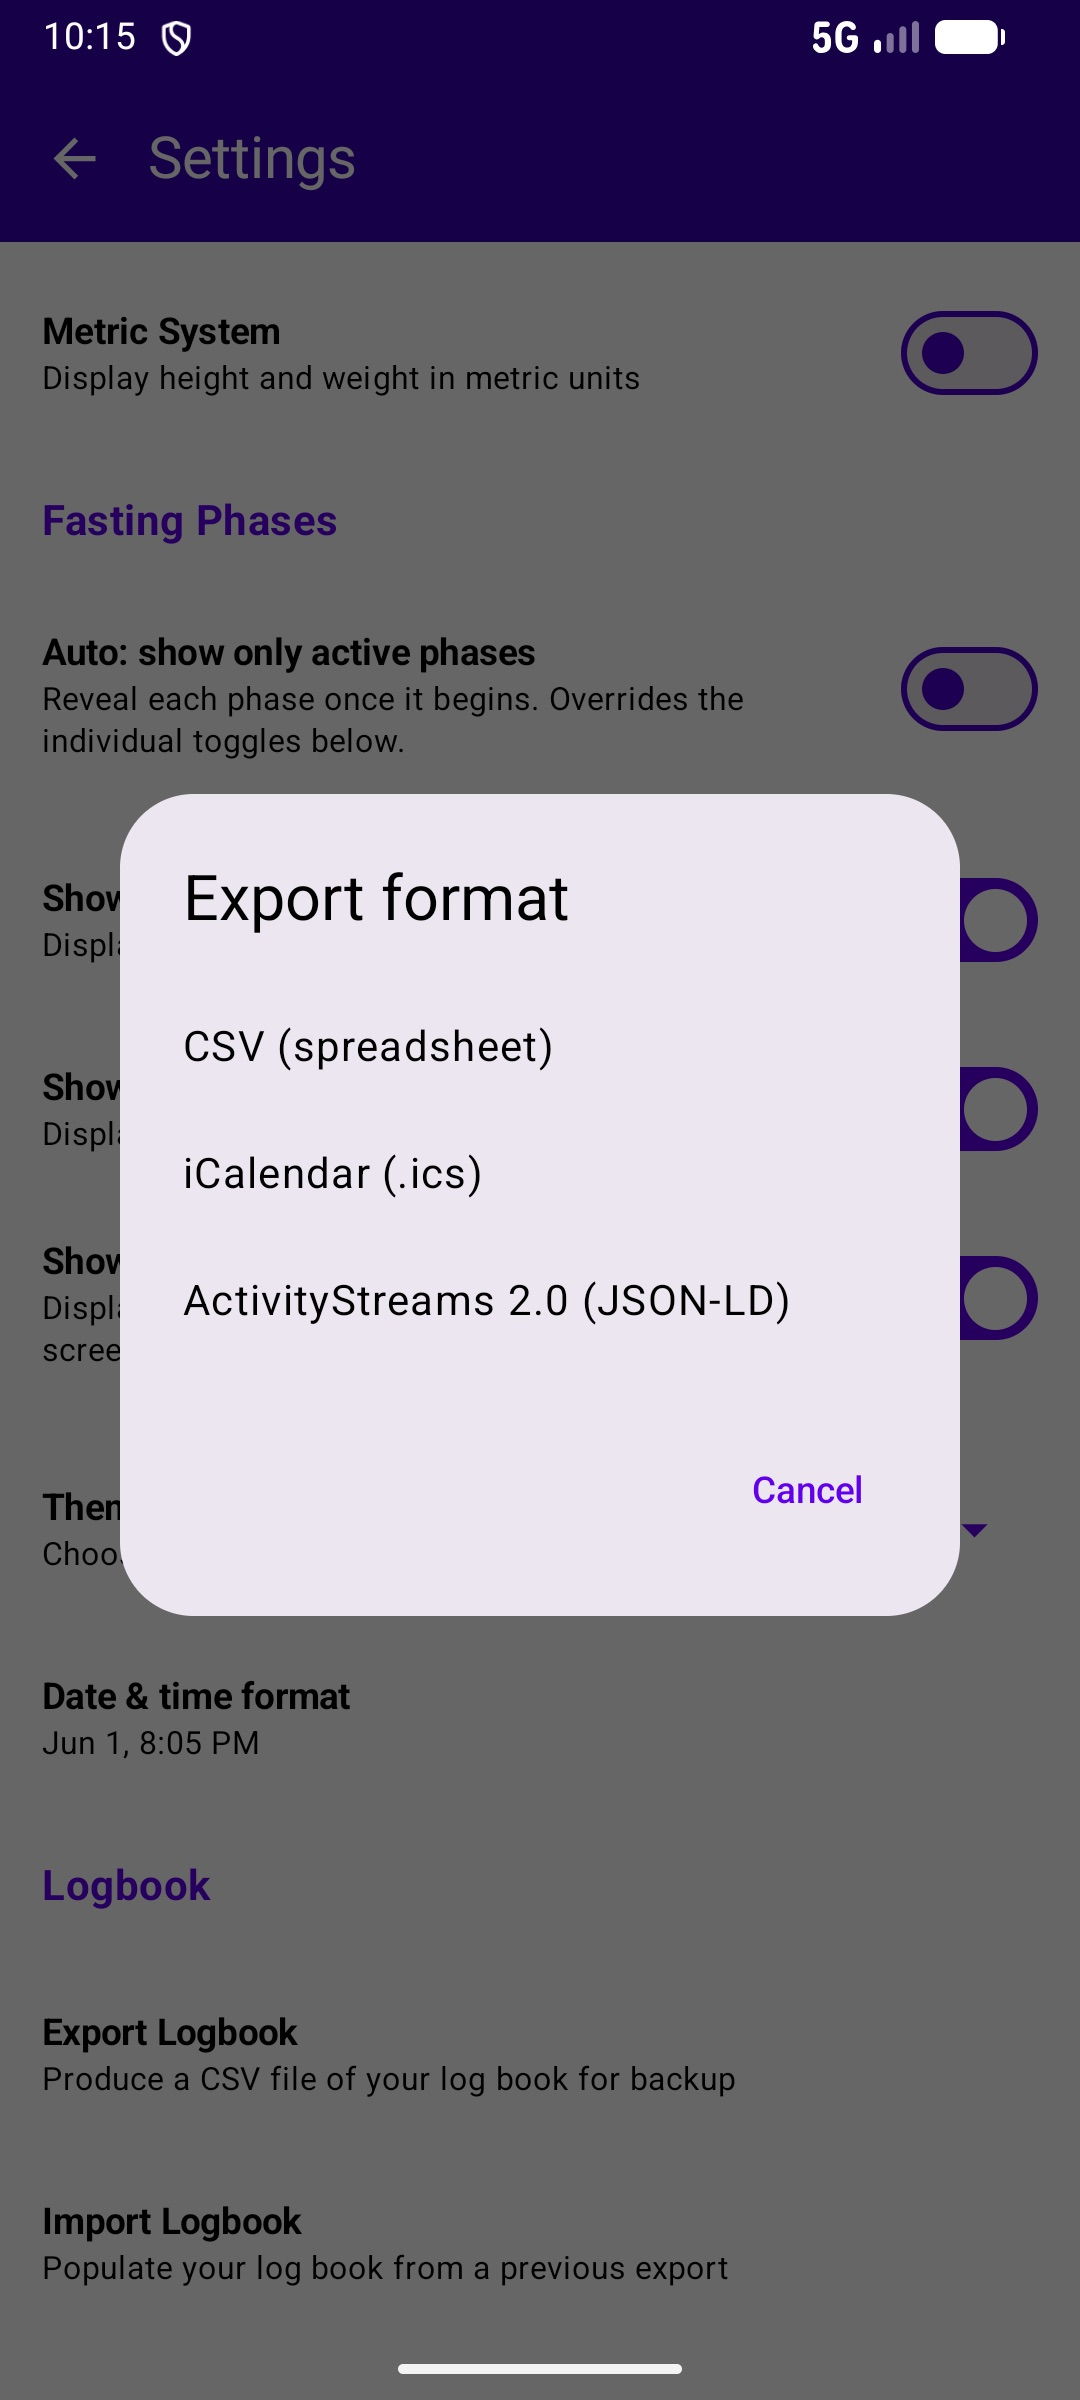
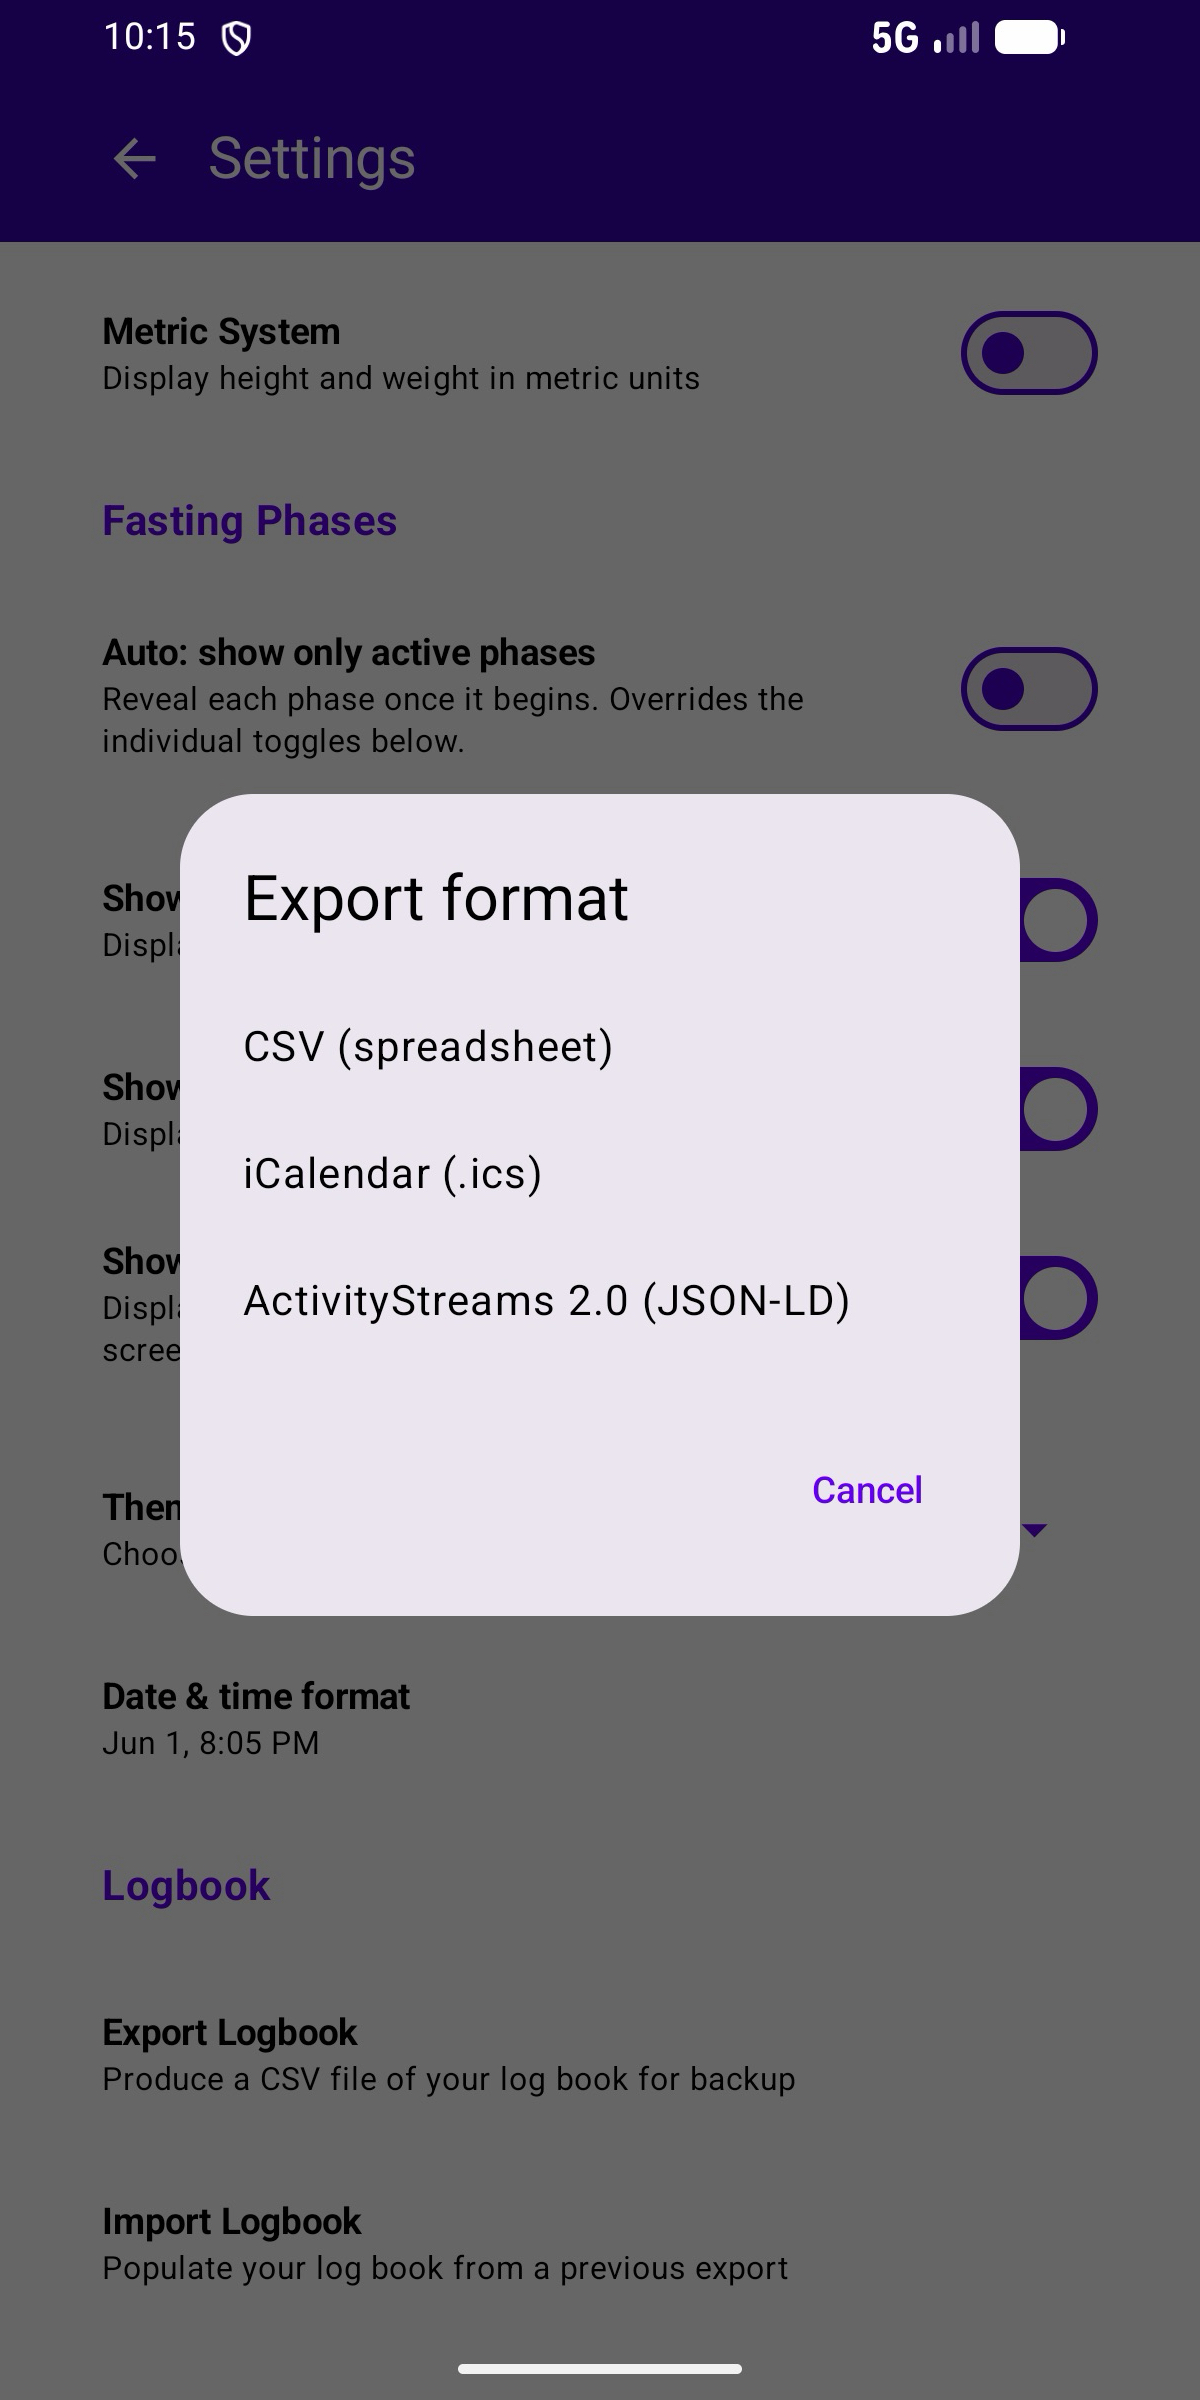
(fastlane) - update fastlane images

diff --git a/scripts/play/preflight.py b/scripts/play/preflight.py
@@ -214,6 +214,15 @@ def check_screenshots():
 				'side' % (name, w, h))
 		if os.path.getsize(path) > 8 * 1024 * 1024:
 			err('screenshot %s exceeds Play\'s 8 MB limit' % name)
+		# Play spells this out: screenshots are "JPEG or 24-bit PNG (no alpha)".
+		if name.lower().endswith('.png') and png_info(path)[3] in (4, 6):
+			err('screenshot %s is a 32-bit PNG; Play requires 24-bit PNG with no '
+				'alpha (or JPEG). Run scripts/play/pad_screenshots.py over it.' % name)
+
+	stray = [f for f in os.listdir(phone)
+			 if not f.lower().endswith(('.png', '.jpg', '.jpeg'))] if shots else []
+	for f in stray:
+		warn('%s sits in phoneScreenshots/ and is not an image' % f)
 
 	# Not fatal, but Play surfaces a "not optimised for tablets" badge without these.
 	for folder, label in (('sevenInchScreenshots', '7-inch tablet'),
